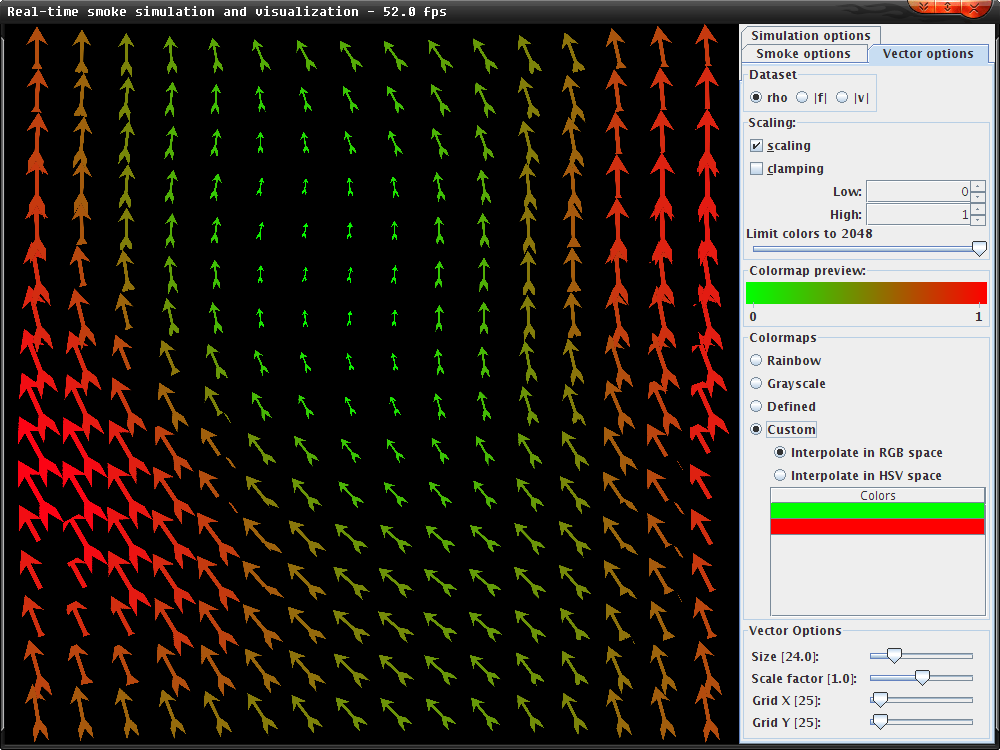
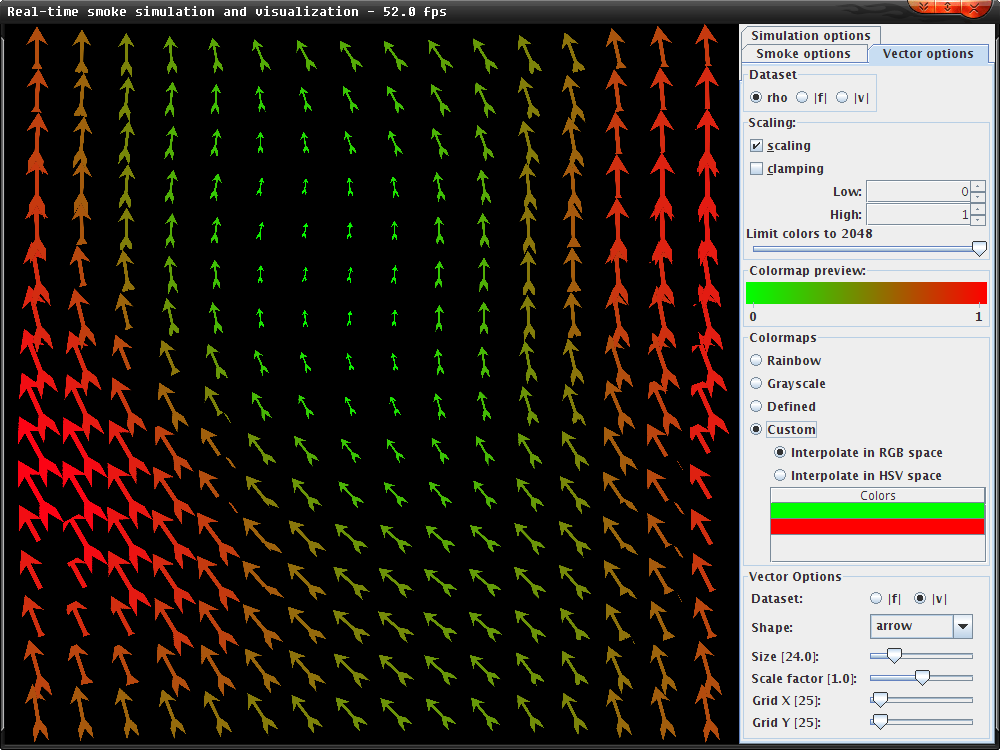
stukje over de glyphs

Changed region(s): [[0.744, 0.736, 0.837, 0.8587], [0.868, 0.7667, 0.992, 0.8587], [0.961, 0.736, 0.992, 0.7667]]

diff --git a/jsmoke/report/report.tex b/jsmoke/report/report.tex
@@ -15,6 +15,7 @@
 
 \newcommand{\imagescalefactor}{0.40}
 \newcommand{\cref}[1]{chapter \ref{#1}}
+\newcommand{\TODO}[1]{\textsc{\textbf{TODO: #1}}}
 
 % \dotsspreamble
 
@@ -70,13 +71,18 @@
 % 		\caption{The first gui elements.}\label{fig:step2}
 % 		\end{figure}
 % 		\newpage
-	\section{Glyphs}
-		\begin{figure}[h]
-		\centering
-		\includegraphics[scale=\imagescalefactor]{images/step3.png}
-		\caption{Adding glyphs.}\label{fig:step3}
-		\end{figure}
-		\newpage
+% 	\section{Glyphs}
+% 		Next we implemented glyphs. As can be seen in the screenshot there are now three separate option panels. One panel can be used to set general options for the simulation (such as the size of the simulation grid, speed of simulation, etc.), one to set options for the `smoke', and one for the glyphs (vectors). The Vector panel in this screenshot is a specialisation of the Smoke panel. The glyphs can be colored on any of the available datasets in the same way as the smoke.
+%
+% 		Also it is possibly to choose a different vector-field to align the glyphs with, and a different shape for the glyphs. The glyphs scale with the average magnitude of the sample-values around the glyph. This scaling can be influenced with the scale-factor to increase or decrease the sensitivity of the glyph scaling to the sample-values. The number of glyphs in the X- and Y-direction can also be set. A notable feature that we have implemented is that glyphs use the average sample values around them instead of just a single point value. This means that when there are significantly less glyphs than grid points glyphs will more more naturally with the flow (they respond to a larger area of the fluid-simulation, an area approximately the size of the glyph it self).
+% 		Lastly it is also possible to select a different shape for the glyph, in the screenshot you can see the default `arrow' shape.
+% 		\TODO{Andere shapes ook noemen? Welke 3D doen we dan?}
+% 		\begin{figure}[h]
+% 		\centering
+% 		\includegraphics[scale=\imagescalefactor]{images/step3.png}
+% 		\caption{Adding glyphs.}\label{fig:step3}
+% 		\end{figure}
+% 		\newpage
 	\section{Divergence}
 		\begin{figure}[h]
 		\centering
